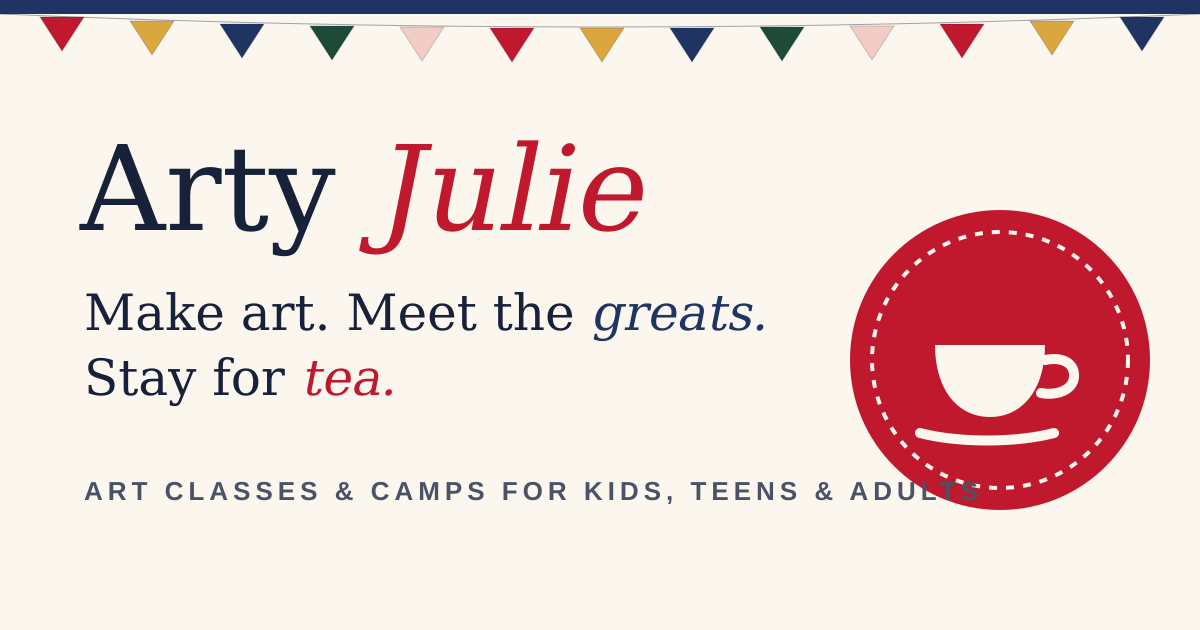
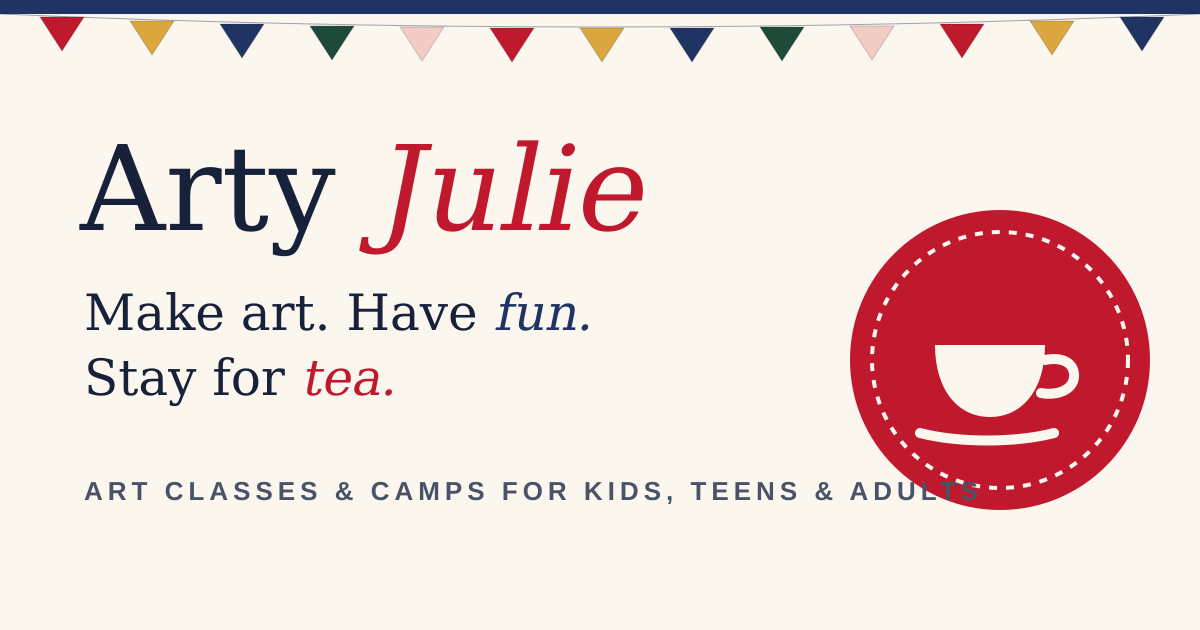
Remove bunting and phone number, change hero headline
Drops the bunting strip under the header and every mention of Julie's
phone number (header strip, footer, contact page, sign-up steps, form
error, mobile action bar, structured data). Email and the inquiry form
are now the contact routes. Home hero now reads 'Make art. Have fun.
Stay for tea.'

Claude-Session: https://claude.ai/code/session_01TLzmR3DZX43EkhcgP7LwoE

Changed region(s): [[0.2775, 0.4524, 0.6475, 0.5429]]

diff --git a/src/pages/Contact.tsx b/src/pages/Contact.tsx
@@ -1,4 +1,4 @@
-import { Mail, Phone, FileText, Wallet } from "lucide-react";
+import { Mail, FileText, Wallet } from "lucide-react";
 import { Instagram } from "../components/InstagramIcon";
 import { InquiryForm } from "../components/InquiryForm";
 import { SectionHeading } from "../components/SectionHeading";
@@ -13,7 +13,7 @@ export default function Contact() {
           as="h1"
           eyebrow="Contact & registration"
           title="Say hello to Julie"
-          intro="Ask about a class or camp, check availability, or just ask a question. Julie will reply by email or phone."
+          intro="Ask about a class or camp, check availability, or just ask a question. Julie will get back to you by email."
           underline="postbox"
         />
       </section>
@@ -27,16 +27,8 @@ export default function Contact() {
 
         <aside className="space-y-10">
           <section aria-labelledby="direct-title">
-            <h2 id="direct-title" className="text-2xl">Prefer to call or email?</h2>
+            <h2 id="direct-title" className="text-2xl">Prefer email?</h2>
             <ul className="mt-5 space-y-4 text-lg">
-              <li>
-                <a className="flex items-center gap-3 hover:text-postbox" href={site.contact.phoneHref}>
-                  <span className="grid h-11 w-11 place-items-center rounded-full border border-ink/20 bg-mustard">
-                    <Phone className="h-5 w-5" aria-hidden="true" />
-                  </span>
-                  {site.contact.phoneDisplay}
-                </a>
-              </li>
               <li>
                 <a className="flex items-center gap-3 break-all hover:text-postbox" href={`mailto:${site.contact.email}`}>
                   <span className="grid h-11 w-11 shrink-0 place-items-center rounded-full border border-ink/20 bg-blush">

diff --git a/src/components/Header.tsx b/src/components/Header.tsx
@@ -1,12 +1,12 @@
 import { useEffect, useRef, useState } from "react";
 import { NavLink, useLocation } from "react-router-dom";
-import { Menu, X, Phone, Mail, ChevronRight } from "lucide-react";
+import { Menu, X, Mail, ChevronRight } from "lucide-react";
 import { Logo } from "./Logo";
 import { Button } from "./Button";
 import { navItems } from "./nav";
 import { site } from "../content/site";
 
-/** Slim navy strip with the phone number, so it's never more than a glance away. */
+/** Slim navy strip with Julie's email, so getting in touch is never more than a glance away. */
 function UtilityBar() {
   return (
     <aside aria-label="Contact Julie" className="bg-navy text-paper">
@@ -14,13 +14,9 @@ function UtilityBar() {
         <p className="hidden sm:block">
           <span className="hand text-[1.05rem] text-mustard">Questions?</span> Julie is happy to help.
         </p>
-        <div className="flex w-full items-center justify-between gap-5 sm:w-auto sm:justify-end">
-          <a href={site.contact.phoneHref} className="inline-flex items-center gap-2 font-semibold hover:text-mustard">
-            <Phone className="h-4 w-4" aria-hidden="true" />
-            Call {site.contact.phoneDisplay}
-          </a>
+        <div className="flex w-full items-center justify-center gap-5 sm:w-auto sm:justify-end">
           <a href={`mailto:${site.contact.email}`} className="inline-flex items-center gap-2 font-semibold hover:text-mustard">
-            <Mail className="h-4 w-4" aria-hidden="true" /> Email Julie
+            <Mail className="h-4 w-4" aria-hidden="true" /> {site.contact.email}
           </a>
         </div>
       </div>

diff --git a/src/pages/Home.tsx b/src/pages/Home.tsx
@@ -1,6 +1,5 @@
 import { Link } from "react-router-dom";
 import { Brush, Palette, Users, Coffee, Landmark, PackageCheck, Sun, ChevronRight } from "lucide-react";
-import { site } from "../content/site";
 import { Button } from "../components/Button";
 import { ArtImage } from "../components/ArtImage";
 import { SectionHeading } from "../components/SectionHeading";
@@ -63,7 +62,7 @@ function Hero() {
           <h1 id="hero-title" className="mt-5 text-[clamp(3rem,7.6vw,5.8rem)] leading-[0.98]">
             Make art.
             <br />
-            Meet the <em className="text-navy" style={{ fontFamily: "var(--font-serif)" }}>greats.</em>
+            Have <em className="text-navy" style={{ fontFamily: "var(--font-serif)" }}>fun.</em>
             <br />
             Stay for <em className="text-postbox" style={{ fontFamily: "var(--font-serif)" }}>tea.</em>
           </h1>
@@ -145,8 +144,7 @@ function HeroChooser() {
         ))}
       </ul>
       <p className="mt-4 text-[1rem] text-ink-soft">
-        Rather talk? Call Julie on{" "}
-        <a className="link-ink" href={site.contact.phoneHref}>{site.contact.phoneDisplay}</a>
+        Not sure? <Link className="link-ink" to="/contact/">Send Julie a quick question</Link>
       </p>
     </nav>
   );

diff --git a/src/components/MobileActionBar.tsx b/src/components/MobileActionBar.tsx
@@ -1,9 +1,9 @@
 import { Link, useLocation } from "react-router-dom";
-import { MessageCircle, Phone } from "lucide-react";
+import { Mail, MessageCircle } from "lucide-react";
 import { site } from "../content/site";
 
 /**
- * Always-visible "Call" and "Ask a question" buttons on phones, so the next
+ * Always-visible "Email" and "Ask Julie" buttons on phones, so the next
  * step never depends on finding the menu. Hidden on large screens and on
  * the contact page itself.
  */
@@ -14,10 +14,10 @@ export function MobileActionBar() {
     <div className="fixed inset-x-0 bottom-0 z-40 border-t border-ink/15 bg-paper/95 px-4 pb-[max(0.75rem,env(safe-area-inset-bottom))] pt-3 backdrop-blur lg:hidden">
       <div className="mx-auto grid max-w-md grid-cols-2 gap-3">
         <a
-          href={site.contact.phoneHref}
+          href={`mailto:${site.contact.email}`}
           className="inline-flex min-h-13 items-center justify-center gap-2 whitespace-nowrap rounded-full border-2 border-navy bg-card px-4 font-bold text-navy"
         >
-          <Phone className="h-5 w-5" aria-hidden="true" /> Call Julie
+          <Mail className="h-5 w-5" aria-hidden="true" /> Email Julie
         </a>
         <Link
           to="/contact/"

diff --git a/src/components/Doodles.tsx b/src/components/Doodles.tsx
@@ -108,30 +108,6 @@ export function Tape({ className = "" }: Props) {
   );
 }
 
-/** A string of bunting. Flags cycle through the brand colours. */
-export function Bunting({ className = "", flags = 24 }: Props & { flags?: number }) {
-  const colors = ["#c0182d", "#fbf7ef", "#1f3463", "#dca63e", "#1e4a38", "#f3cdc5"];
-  const w = 40;
-  return (
-    <svg className={className} viewBox={`0 0 ${flags * w} 34`} preserveAspectRatio="xMidYMin slice" aria-hidden="true">
-      <path d={`M0 3 Q ${(flags * w) / 2} 9 ${flags * w} 3`} stroke="#17213a" strokeWidth="1.2" fill="none" opacity=".5" />
-      {Array.from({ length: flags }, (_, i) => {
-        const x = i * w + 4;
-        const sag = 3 + Math.sin((i / flags) * Math.PI) * 5;
-        return (
-          <path
-            key={i}
-            d={`M${x} ${sag} L${x + w - 8} ${sag} L${x + (w - 8) / 2} ${sag + 24} Z`}
-            fill={colors[i % colors.length]}
-            stroke="#17213a"
-            strokeOpacity=".18"
-          />
-        );
-      })}
-    </svg>
-  );
-}
-
 /** A small classical divider: rule, diamond, rule. */
 export function Flourish({ className = "" }: Props) {
   return (

diff --git a/src/components/Footer.tsx b/src/components/Footer.tsx
@@ -1,5 +1,5 @@
 import { Link } from "react-router-dom";
-import { Mail, Phone } from "lucide-react";
+import { Mail } from "lucide-react";
 import { Instagram } from "./InstagramIcon";
 import { site } from "../content/site";
 import { Logo } from "./Logo";
@@ -32,11 +32,6 @@ export function Footer() {
         <div>
           <h2 className="eyebrow mb-4 text-mustard">Get in touch</h2>
           <ul className="space-y-3">
-            <li>
-              <a className="inline-flex items-center gap-2.5 hover:text-mustard" href={site.contact.phoneHref}>
-                <Phone className="h-4 w-4" aria-hidden="true" /> {site.contact.phoneDisplay}
-              </a>
-            </li>
             <li>
               <a className="inline-flex items-center gap-2.5 break-all hover:text-mustard" href={`mailto:${site.contact.email}`}>
                 <Mail className="h-4 w-4 shrink-0" aria-hidden="true" /> {site.contact.email}

diff --git a/src/pages/Camps.tsx b/src/pages/Camps.tsx
@@ -110,9 +110,9 @@ export default function Camps() {
                   title: "Tell Julie which camp",
                   body: (
                     <p>
-                      <Link className="link-ink" to="/contact/?program=camp">Send a message</Link> or call{" "}
-                      <a className="link-ink" href={site.contact.phoneHref}>{site.contact.phoneDisplay}</a>. Spaces are
-                      limited to eight per camp.
+                      <Link className="link-ink" to="/contact/?program=camp">Send a message</Link> or{" "}
+                      <a className="link-ink" href={`mailto:${site.contact.email}`}>email Julie</a>. Spaces are limited
+                      to eight per camp.
                     </p>
                   ),
                 },

diff --git a/src/pages/KidsClasses.tsx b/src/pages/KidsClasses.tsx
@@ -73,9 +73,9 @@ export default function KidsClasses() {
                   title: "Check availability",
                   body: (
                     <p>
-                      <Link className="link-ink" to="/contact/?program=kids">Send Julie a message</Link> or call{" "}
-                      <a className="link-ink" href={site.contact.phoneHref}>{site.contact.phoneDisplay}</a> to find a day
-                      with space.
+                      <Link className="link-ink" to="/contact/?program=kids">Send Julie a message</Link> or{" "}
+                      <a className="link-ink" href={`mailto:${site.contact.email}`}>email her</a> to find a day with
+                      space.
                     </p>
                   ),
                 },

diff --git a/src/components/Layout.tsx b/src/components/Layout.tsx
@@ -3,7 +3,6 @@ import { Outlet, useLocation } from "react-router-dom";
 import { Header } from "./Header";
 import { Footer } from "./Footer";
 import { MobileActionBar } from "./MobileActionBar";
-import { Bunting } from "./Doodles";
 import { metaFor } from "../content/routes";
 
 /** Keeps <title>, description and canonical in sync during client-side navigation. */
@@ -56,7 +55,6 @@ export function Layout() {
         Skip to content
       </a>
       <Header />
-      <Bunting className="pointer-events-none block h-7 w-full" />
       <main id="main" tabIndex={-1} className="outline-none">
         <Outlet />
       </main>

diff --git a/src/content/site.ts b/src/content/site.ts
@@ -14,11 +14,7 @@ export const site = {
   tagline: "Art classes and holiday camps for kids, teens and adults",
 
   contact: {
-    // TODO(Julie): the old site lists three numbers: (310) 351-4126 on the
-    // adult and 2026 camp pages, (310) 573-0039 on the kids page and
-    // (310) 597-4644 on the teen page. We use the most recently updated one.
-    phoneDisplay: "(310) 351-4126",
-    phoneHref: "tel:+13103514126",
+    // Phone numbers are intentionally not published on the site.
     // TODO(Julie): the old site also uses art@pantsinc.net and julie@pantsinc.net.
     email: "julievan2@me.com",
   },

diff --git a/src/pages/AdultClasses.tsx b/src/pages/AdultClasses.tsx
@@ -94,8 +94,8 @@ export default function AdultClasses() {
                 medium you'd love to try, mention it when you get in touch.
               </p>
               <p>
-                Prefer to talk it through? Call Julie on{" "}
-                <a href={site.contact.phoneHref}>{site.contact.phoneDisplay}</a>.
+                Questions first? Email Julie at{" "}
+                <a href={`mailto:${site.contact.email}`}>{site.contact.email}</a>.
               </p>
             </div>
             <ul className="mt-8 flex flex-wrap gap-2" aria-label="Mediums Julie teaches">

diff --git a/src/components/InquiryForm.tsx b/src/components/InquiryForm.tsx
@@ -200,8 +200,7 @@ export function InquiryForm() {
           <p className="font-semibold">Sorry, your message didn't send.</p>
           <p className="mt-1">
             Please try again, or email Julie at{" "}
-            <a className="underline" href={`mailto:${site.contact.email}`}>{site.contact.email}</a> or call{" "}
-            <a className="underline" href={site.contact.phoneHref}>{site.contact.phoneDisplay}</a>.
+            <a className="underline" href={`mailto:${site.contact.email}`}>{site.contact.email}</a>.
           </p>
         </div>
       )}
